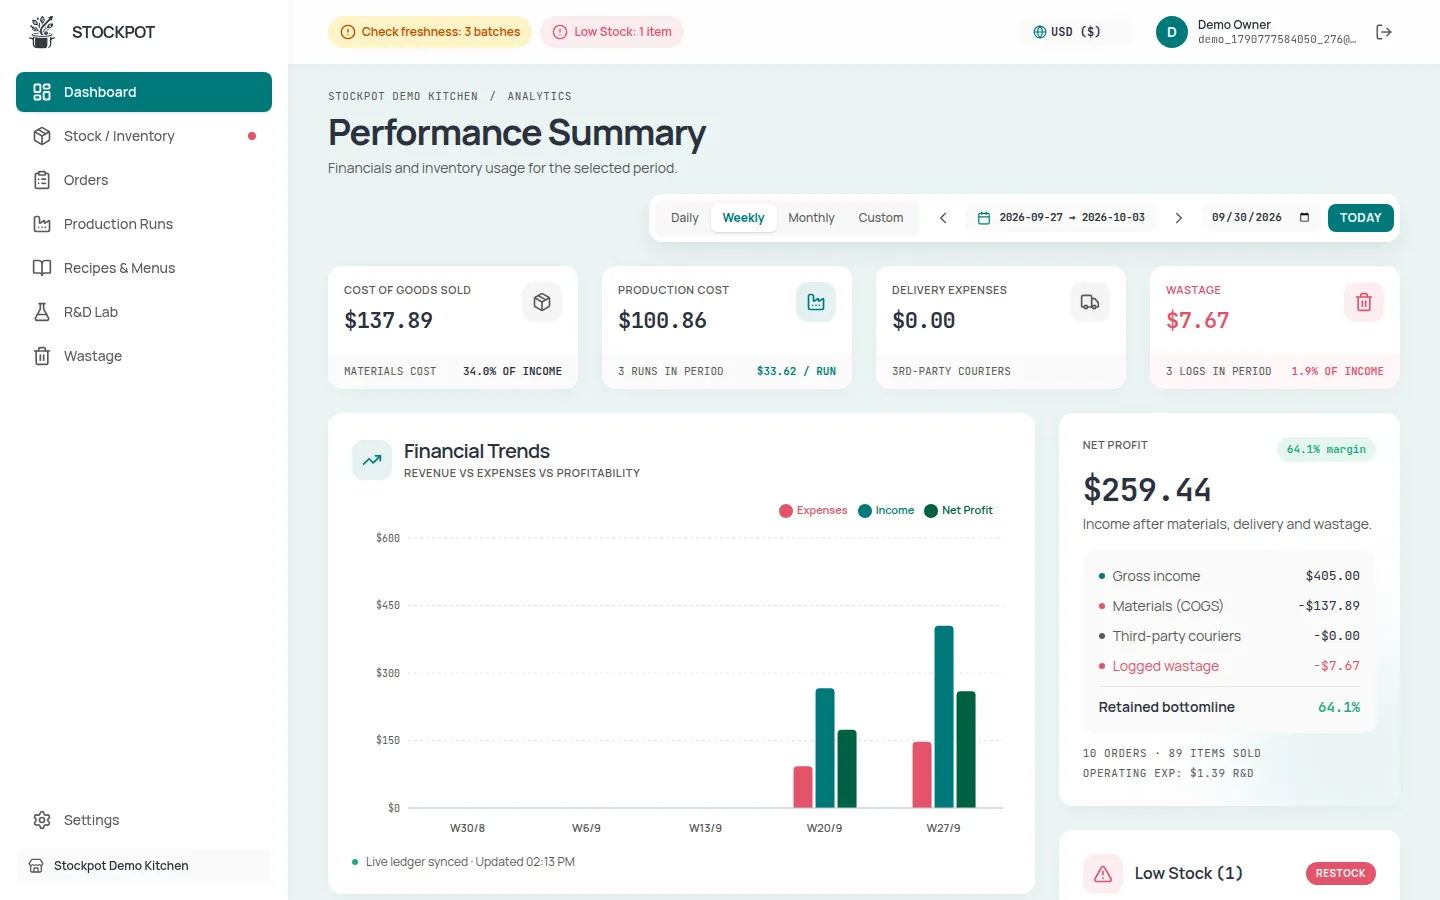
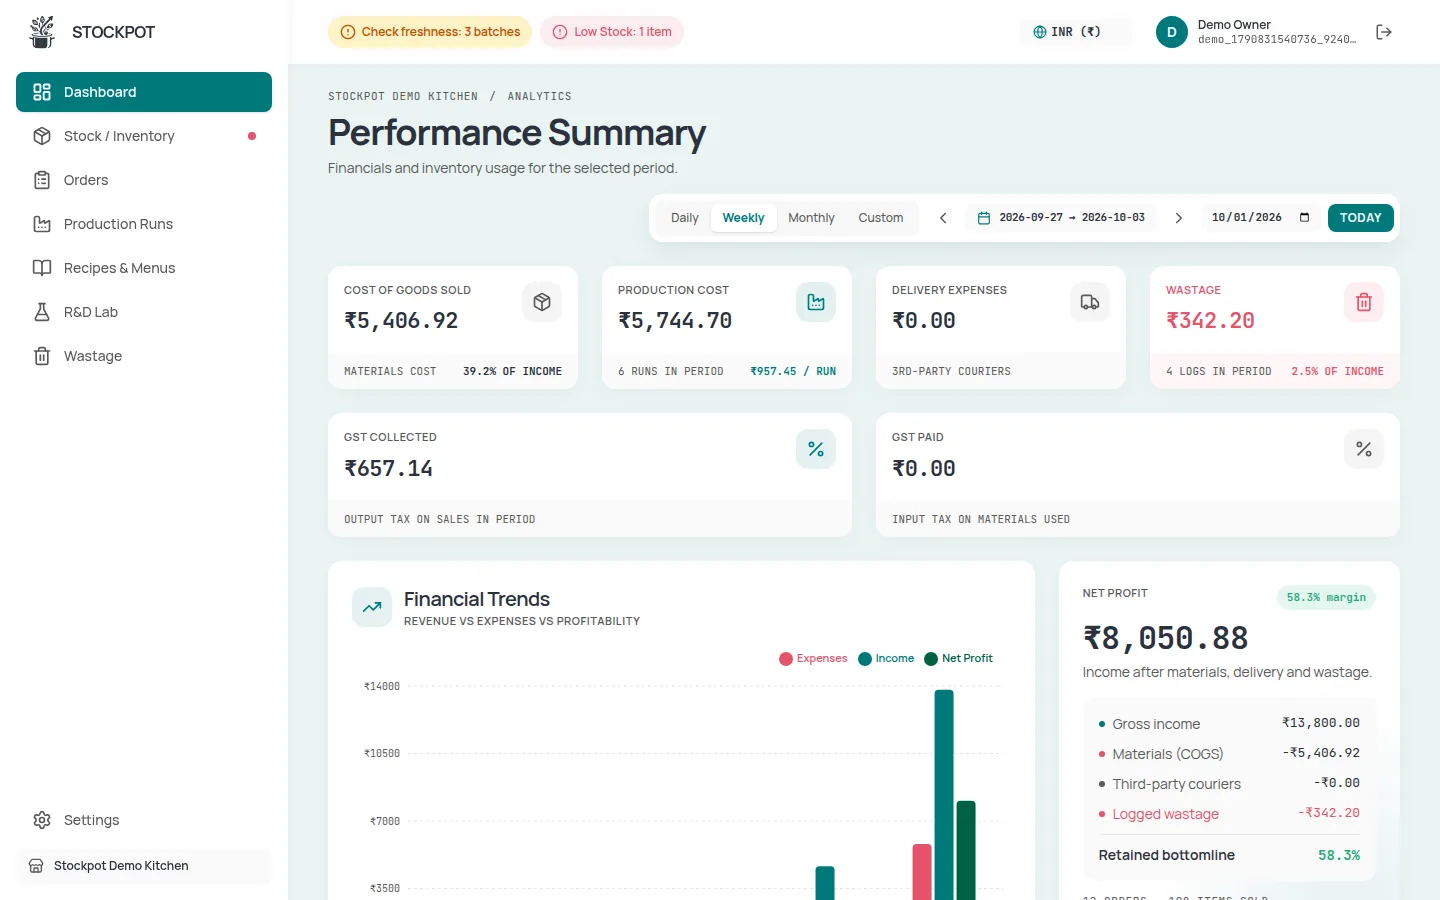
Make the demo sandbox an Indian bakery
Stockpot is focused on India for now. The demo now uses INR with GST on
(5%, inclusive), typical Indian ingredient and menu prices, a Bengaluru
address, Indian customer names and +91 phone numbers, an atta loaf in place
of the sourdough, and an atta croissant R&D trial. All dependent figures are
still derived; tests updated, and the landing-page screenshots are retaken.

Claude-Session: https://claude.ai/code/session_0119maDkaTz4Zs1e7v5ERB2f

diff --git a/src/utils/demoData.ts b/src/utils/demoData.ts
@@ -49,22 +49,25 @@ export function buildDemoData(userId: string, today: string) {
 
   // ── Materials: what was bought (opening stock), price, and alert level ─────
   // Current stock is worked out below from what the production runs used.
+  // Prices are typical Indian retail/wholesale rates in rupees, per gram / ml / piece.
   const purchases = [
-    { id: 'm_flour', name: 'All-Purpose Flour', unit: 'g', bought: 60000, costPerUnit: 0.002, category: 'Raw Materials', threshold: 10000 },
-    { id: 'm_sugar', name: 'Granulated Sugar', unit: 'g', bought: 25000, costPerUnit: 0.0015, category: 'Raw Materials', threshold: 5000 },
-    { id: 'm_butter', name: 'Unsalted Butter', unit: 'g', bought: 12000, costPerUnit: 0.012, category: 'Raw Materials', threshold: 2000 },
-    { id: 'm_eggs', name: 'Large Eggs', unit: 'pcs', bought: 150, costPerUnit: 0.25, category: 'Raw Materials', threshold: 30 },
-    { id: 'm_milk', name: 'Whole Milk', unit: 'ml', bought: 20000, costPerUnit: 0.0012, category: 'Raw Materials', threshold: 4000 },
+    { id: 'm_flour', name: 'Maida (All-Purpose Flour)', unit: 'g', bought: 60000, costPerUnit: 0.045, category: 'Raw Materials', threshold: 10000 }, // ₹45/kg
+    { id: 'm_atta', name: 'Whole Wheat Atta', unit: 'g', bought: 40000, costPerUnit: 0.048, category: 'Raw Materials', threshold: 5000 }, // ₹48/kg
+    { id: 'm_sugar', name: 'Sugar', unit: 'g', bought: 25000, costPerUnit: 0.048, category: 'Raw Materials', threshold: 5000 }, // ₹48/kg
+    { id: 'm_butter', name: 'Unsalted Butter', unit: 'g', bought: 12000, costPerUnit: 0.57, category: 'Raw Materials', threshold: 2000 }, // ₹570/kg
+    { id: 'm_eggs', name: 'Eggs', unit: 'pcs', bought: 150, costPerUnit: 7, category: 'Raw Materials', threshold: 30 }, // ₹7 each
+    { id: 'm_milk', name: 'Full Cream Milk', unit: 'ml', bought: 20000, costPerUnit: 0.068, category: 'Raw Materials', threshold: 4000 }, // ₹68/litre
     // Deliberately runs low so the demo shows a Low Stock alert.
-    { id: 'm_yeast', name: 'Active Dry Yeast', unit: 'g', bought: 1000, costPerUnit: 0.05, category: 'Raw Materials', threshold: 300 },
-    { id: 'm_chips', name: 'Chocolate Chips', unit: 'g', bought: 8000, costPerUnit: 0.008, category: 'Raw Materials', threshold: 1500 },
-    { id: 'm_box', name: 'Packaging Box', unit: 'pcs', bought: 300, costPerUnit: 0.50, category: 'Packaging Materials', threshold: 50 },
+    { id: 'm_yeast', name: 'Instant Dry Yeast', unit: 'g', bought: 900, costPerUnit: 0.7, category: 'Raw Materials', threshold: 300 }, // ₹700/kg
+    { id: 'm_chips', name: 'Chocolate Chips', unit: 'g', bought: 8000, costPerUnit: 0.6, category: 'Raw Materials', threshold: 1500 }, // ₹600/kg
+    { id: 'm_box', name: 'Bakery Box', unit: 'pcs', bought: 300, costPerUnit: 12, category: 'Packaging Materials', threshold: 50 }, // ₹12 each
   ];
+
 
   // ── Menu: recipes are per single unit ──────────────────────────────────────
   const menuBase = [
     {
-      id: 'menu_croissant', name: 'Classic Croissant', sellingPrice: 4.50, emoji: '🥐',
+      id: 'menu_croissant', name: 'Butter Croissant', sellingPrice: 150, emoji: '🥐',
       recipe: [
         { materialId: 'm_flour', amount: 150, unit: 'g' },
         { materialId: 'm_sugar', amount: 15, unit: 'g' },
@@ -74,24 +77,27 @@ export function buildDemoData(userId: string, today: string) {
       ],
     },
     {
-      id: 'menu_muffin', name: 'Chocolate Muffin', sellingPrice: 3.75, emoji: '🧁',
+      id: 'menu_muffin', name: 'Chocolate Muffin', sellingPrice: 120, emoji: '🧁',
       recipe: [
         { materialId: 'm_flour', amount: 120, unit: 'g' },
-        { materialId: 'm_sugar', amount: 80, unit: 'g' },
-        { materialId: 'm_butter', amount: 50, unit: 'g' },
+        { materialId: 'm_sugar', amount: 60, unit: 'g' },
+        { materialId: 'm_butter', amount: 30, unit: 'g' },
         { materialId: 'm_eggs', amount: 1, unit: 'pcs' },
         { materialId: 'm_milk', amount: 60, unit: 'ml' },
-        { materialId: 'm_chips', amount: 40, unit: 'g' },
+        { materialId: 'm_chips', amount: 25, unit: 'g' },
       ],
     },
     {
-      id: 'menu_sourdough', name: 'Sourdough Loaf', sellingPrice: 6.00, emoji: '🍞',
+      id: 'menu_bread', name: 'Whole Wheat Atta Loaf', sellingPrice: 90, emoji: '🍞',
       recipe: [
-        { materialId: 'm_flour', amount: 500, unit: 'g' },
-        { materialId: 'm_yeast', amount: 10, unit: 'g' },
+        { materialId: 'm_atta', amount: 400, unit: 'g' },
+        { materialId: 'm_flour', amount: 100, unit: 'g' },
+        { materialId: 'm_sugar', amount: 15, unit: 'g' },
+        { materialId: 'm_yeast', amount: 6, unit: 'g' },
       ],
     },
   ];
+
 
   const recipeUnitCost = (menuId: string) => {
     const item = menuBase.find(m => m.id === menuId)!;
@@ -104,22 +110,22 @@ export function buildDemoData(userId: string, today: string) {
   // ── Orders (one per customer) ──────────────────────────────────────────────
   const orderRows: [string, number, number, string, string][] = [
     // [menu item, quantity, days ago, customer, phone]
-    ['menu_croissant', 8, 0, 'John Smith', '555-0101'],
-    ['menu_muffin', 12, 0, 'Alice Green', '555-0102'],
-    ['menu_sourdough', 4, 0, 'Robert Vance', '555-0103'],
-    ['menu_croissant', 15, 1, 'Cafe Central', '555-0201'],
-    ['menu_muffin', 8, 1, 'David Lee', '555-0202'],
-    ['menu_sourdough', 6, 1, 'Emily Davis', '555-0203'],
-    ['menu_croissant', 6, 2, 'Local Inn', '555-0301'],
-    ['menu_muffin', 10, 2, 'Bake Fanatic', '555-0302'],
-    ['menu_sourdough', 8, 3, 'George Miller', '555-0401'],
-    ['menu_croissant', 12, 3, 'Sarah Connor', '555-0402'],
-    ['menu_muffin', 14, 4, 'Kevin Hart', '555-0501'],
-    ['menu_croissant', 5, 4, 'Office Gathering', '555-0502'],
-    ['menu_sourdough', 10, 5, 'Daily Grind', '555-0601'],
-    ['menu_croissant', 10, 5, 'Hotel Continental', '555-0602'],
-    ['menu_muffin', 15, 6, 'School Event', '555-0701'],
-    ['menu_sourdough', 5, 6, 'Community Center', '555-0702'],
+    ['menu_croissant', 8, 0, 'Priya Sharma', '+91 98450 10101'],
+    ['menu_muffin', 12, 0, 'Rohan Mehta', '+91 98450 10102'],
+    ['menu_bread', 4, 0, 'Sunita Iyer', '+91 98450 10103'],
+    ['menu_croissant', 15, 1, 'Brew & Bite Café', '+91 98860 20201'],
+    ['menu_muffin', 8, 1, 'Arjun Nair', '+91 98860 20202'],
+    ['menu_bread', 6, 1, 'Kavita Reddy', '+91 98860 20203'],
+    ['menu_croissant', 6, 2, 'Hotel Sai Residency', '+91 99001 30301'],
+    ['menu_muffin', 10, 2, 'Tapri Corner Café', '+91 99001 30302'],
+    ['menu_bread', 8, 3, 'Imran Qureshi', '+91 99720 40401'],
+    ['menu_croissant', 12, 3, 'Neha Gupta', '+91 99720 40402'],
+    ['menu_muffin', 14, 4, 'Vikram Singh', '+91 97420 50501'],
+    ['menu_croissant', 5, 4, 'Infosys Road Office Party', '+91 97420 50502'],
+    ['menu_bread', 10, 5, 'Daily Fresh Grocers', '+91 90350 60601'],
+    ['menu_croissant', 10, 5, 'Hotel Udupi Grand', '+91 90350 60602'],
+    ['menu_muffin', 15, 6, 'Greenfield School Fete', '+91 80410 70701'],
+    ['menu_bread', 5, 6, 'Residents Welfare Association', '+91 80410 70702'],
   ];
   const orders: DemoOrder[] = orderRows.map(([menuItemId, quantity, daysAgo, customerName, customerPhone], i) => ({
     id: `ord_${i + 1}`, menuItemId, quantity, date: at(daysAgo), customerName, customerPhone,
@@ -130,13 +136,13 @@ export function buildDemoData(userId: string, today: string) {
   const runRows: [string, string, number, number | undefined, number, number][] = [
     ['run_1', 'menu_croissant', 30, undefined, 6, 2],
     ['run_2', 'menu_muffin', 30, undefined, 6, 3],
-    ['run_3', 'menu_sourdough', 15, undefined, 6, 2],
+    ['run_3', 'menu_bread', 15, undefined, 6, 2],
     ['run_4', 'menu_croissant', 20, undefined, 4, 2],
     ['run_5', 'menu_muffin', 20, 19, 4, 3], // one muffin lost at the bench
-    ['run_6', 'menu_sourdough', 15, undefined, 4, 2],
+    ['run_6', 'menu_bread', 15, undefined, 4, 2],
     ['run_7', 'menu_croissant', 25, undefined, 1, 2],
     ['run_8', 'menu_muffin', 25, undefined, 2, 3],
-    ['run_9', 'menu_sourdough', 15, undefined, 2, 2],
+    ['run_9', 'menu_bread', 15, undefined, 2, 2],
   ];
 
   // Units ordered per item are taken from the oldest batches first (FIFO).
@@ -195,25 +201,29 @@ export function buildDemoData(userId: string, today: string) {
   const experiments = [
     {
       id: 'exp_1',
-      name: 'Gluten-Free Croissant Attempt',
+      name: 'Atta Croissant Trial',
       date: at(2),
       materials: [
-        { materialId: 'm_flour', amount: 200, unit: 'g' },
+        { materialId: 'm_atta', amount: 200, unit: 'g' },
         { materialId: 'm_sugar', amount: 20, unit: 'g' },
         { materialId: 'm_butter', amount: 80, unit: 'g' },
       ],
-      notes: 'Tried replacing AP Flour with almond flour. Dough was too crumbly, did not rise well. Tastes good but texture is off.',
+      notes: 'Tried replacing maida with whole wheat atta. Layers did not separate well and the crumb was dense. Tastes good but the texture is off.',
     },
   ];
+
 
   const settings = {
     name: 'Stockpot Demo Kitchen',
     logo: '',
     primaryColor: '#10b981',
-    address: '123 Market Street, Foodville',
-    phone: '555-0199',
+    address: '14, 80 Feet Road, Indiranagar, Bengaluru 560038',
+    phone: '+91 98450 00199',
     email: `${userId}@demo.stockpot.app`,
-    currency: { code: 'USD', symbol: '$' },
+    currency: { code: 'INR', symbol: '₹' },
+    gstApplicable: true,
+    gstRate: 5,
+    gstPricingMode: 'inclusive',
     categories: ['Raw Materials', 'Packaging Materials'],
   };
 

diff --git a/src/utils/__tests__/demoData.test.ts b/src/utils/__tests__/demoData.test.ts
@@ -23,19 +23,21 @@ describe('demo data adds up', () => {
     for (const r of demo.productionRuns) expect(demo.menu.some(m => m.id === r.recipeId)).toBe(true);
   });
 
-  it('prices a croissant at 1.5325 of materials, worked out by hand', () => {
-    // 150g flour x 0.002 + 15g sugar x 0.0015 + 75g butter x 0.012 + 50ml milk x 0.0012 + 5g yeast x 0.05
-    expect(recipeCost('menu_croissant')).toBeCloseTo(0.3 + 0.0225 + 0.9 + 0.06 + 0.25, 6);
-    expect(recipeCost('menu_croissant')).toBeCloseTo(1.5325, 6);
-    expect(recipeCost('menu_sourdough')).toBeCloseTo(1.5, 6); // 500g flour + 10g yeast
+  it('prices a croissant at ₹57.12 of materials, worked out by hand', () => {
+    // 150g maida x 0.045 + 15g sugar x 0.048 + 75g butter x 0.57 + 50ml milk x 0.068 + 5g yeast x 0.7
+    expect(recipeCost('menu_croissant')).toBeCloseTo(6.75 + 0.72 + 42.75 + 3.4 + 3.5, 6);
+    expect(recipeCost('menu_croissant')).toBeCloseTo(57.12, 6);
+    // 400g atta x 0.048 + 100g maida x 0.045 + 15g sugar x 0.048 + 6g yeast x 0.7
+    expect(recipeCost('menu_bread')).toBeCloseTo(19.2 + 4.5 + 0.72 + 4.2, 6);
+    expect(recipeCost('menu_bread')).toBeCloseTo(28.62, 6);
   });
 
   it('costs every production run at quantity produced x recipe cost', () => {
     for (const run of demo.productionRuns) {
       expect(run.costTotal).toBeCloseTo(run.quantityProduced * recipeCost(run.recipeId), 1);
     }
-    // 25 croissants: about 38.31, not thousands
-    expect(byId(demo.productionRuns, 'run_7').costTotal).toBe(38.31);
+    // 25 croissants at ₹57.12 each
+    expect(byId(demo.productionRuns, 'run_7').costTotal).toBe(1428);
   });
 
   it('shelf stock is units made (after waste) minus units ordered, and matches the batches', () => {
@@ -44,7 +46,7 @@ describe('demo data adds up', () => {
     expect(ordered('menu_croissant')).toBe(56);
     expect(byId(demo.menu, 'menu_croissant').finishedGoodsStock).toBe(75 - 56);
     expect(byId(demo.menu, 'menu_muffin').finishedGoodsStock).toBe(74 - 59); // 30 + 19 (one lost) + 25 made
-    expect(byId(demo.menu, 'menu_sourdough').finishedGoodsStock).toBe(45 - 33);
+    expect(byId(demo.menu, 'menu_bread').finishedGoodsStock).toBe(45 - 33);
     for (const item of demo.menu) {
       expect(item.finishedGoodsStock).toBe(produced(item.id) - ordered(item.id));
       const left = sum(demo.productionRuns.filter(r => r.recipeId === item.id).map(r => r.remainingQuantity));
@@ -79,11 +81,13 @@ describe('demo data adds up', () => {
       const req = byId(demo.menu, run.recipeId).recipe.find(r => r.materialId === materialId);
       return req ? convertAmount(req.amount, req.unit, byId(demo.materials, materialId).unit) * run.quantityProduced : 0;
     }));
-    // flour: 75 croissants x 150g + 75 muffins x 120g + 45 loaves x 500g = 42,750g of 60,000g bought
-    expect(used('m_flour')).toBe(42750);
-    expect(byId(demo.materials, 'm_flour').initialStock).toBe(60000 - 42750);
-    // yeast: 75 x 5g + 45 x 10g = 825g of 1,000g bought
-    expect(byId(demo.materials, 'm_yeast').initialStock).toBe(1000 - 825);
+    // maida: 75 croissants x 150g + 75 muffins x 120g + 45 loaves x 100g = 24,750g of 60,000g bought
+    expect(used('m_flour')).toBe(24750);
+    expect(byId(demo.materials, 'm_flour').initialStock).toBe(60000 - 24750);
+    // atta: 45 loaves x 400g = 18,000g of 40,000g bought
+    expect(byId(demo.materials, 'm_atta').initialStock).toBe(40000 - 18000);
+    // yeast: 75 x 5g + 45 x 6g = 645g of 900g bought
+    expect(byId(demo.materials, 'm_yeast').initialStock).toBe(900 - 645);
     // eggs: one per muffin, all 75 baked (the lost muffin still used its egg)
     expect(byId(demo.materials, 'm_eggs').initialStock).toBe(150 - 75);
     // packaging is not part of any recipe, so untouched
@@ -112,6 +116,20 @@ describe('demo data adds up', () => {
     for (const item of demo.menu) {
       const margin = (item.sellingPrice - recipeCost(item.id)) / item.sellingPrice;
       expect(margin).toBeGreaterThan(0.5);
+    }
+  });
+
+  it('is set up for an Indian business: rupees, GST on, and rupee-scale prices', () => {
+    expect(demo.settings.currency).toEqual({ code: 'INR', symbol: '₹' });
+    expect(demo.settings.gstApplicable).toBe(true);
+    expect(demo.settings.phone).toMatch(/^\+91 /);
+    for (const o of demo.orders) expect(o.customerPhone).toMatch(/^\+91 /);
+    // typical Indian retail prices: staples cost tens of rupees a kilo, butter hundreds
+    expect(byId(demo.materials, 'm_flour').costPerUnit * 1000).toBeCloseTo(45, 6);
+    expect(byId(demo.materials, 'm_butter').costPerUnit * 1000).toBeCloseTo(570, 6);
+    for (const item of demo.menu) {
+      expect(item.sellingPrice).toBeGreaterThanOrEqual(50);
+      expect(item.sellingPrice).toBeLessThanOrEqual(300);
     }
   });
 

diff --git a/src/__tests__/demoSandbox.test.tsx b/src/__tests__/demoSandbox.test.tsx
@@ -63,7 +63,7 @@ describe('Demo sandbox', () => {
     const docs = (kind: string) => [...fake.current.store.entries()].filter(([k]) => k.includes(`/${kind}/`)).map(([, v]) => v as any);
     const [materials, menu, orders, runs, experiments] = ['materials', 'menu', 'orders', 'productionRuns', 'experiments'].map(docs);
     const sum = (xs: number[]) => xs.reduce((a, b) => a + b, 0);
-    const money = (n: number) => `$${n.toLocaleString(undefined, { minimumFractionDigits: 2, maximumFractionDigits: 2 })}`;
+    const money = (n: number) => `₹${n.toLocaleString(undefined, { minimumFractionDigits: 2, maximumFractionDigits: 2 })}`;
     const valueOf = (label: string) => screen.getByText(label).nextElementSibling?.textContent;
     const open = async (nav: RegExp, heading: string) => {
       fireEvent.click(screen.getAllByRole('button', { name: nav })[0]);
@@ -91,7 +91,7 @@ describe('Demo sandbox', () => {
     const value = sum(materials.map((m: any) => Math.max(m.initialStock - projectedUse(m.id), 0) * m.costPerUnit));
     expect(screen.getByText('Raw Inventory Value').closest('div.surface-card')?.textContent).toContain(money(value));
     const low = materials.filter((m: any) => m.threshold > 0 && m.initialStock - projectedUse(m.id) <= m.threshold);
-    expect(low.map((m: any) => m.name)).toEqual(['Active Dry Yeast']);
+    expect(low.map((m: any) => m.name)).toEqual(['Instant Dry Yeast']);
     expect(screen.getByText('Under Threshold').closest('div.surface-card')?.textContent).toContain('1 SKU');
 
     // Dashboard (today): income - materials used = net profit

diff --git a/src/App.tsx b/src/App.tsx
@@ -628,7 +628,7 @@ function BakeryApp() {
    * Seeds realistic demo data for a newly created demo user in Firestore.
    * Sets up settings, materials, menu items, sales orders, production runs, and R&D sessions.
    * Uses a single atomic writeBatch to ensure all writes complete together.
-   * Default currency is set to USD (US Dollar, code: 'USD', symbol: '$').
+   * Default currency is set to INR (Indian Rupee, code: 'INR', symbol: '₹'), with GST on at 5% (prices inclusive).
    * The data itself lives in utils/demoData.ts, where every dependent number
    * (batch costs, ingredient and shelf stock) is derived so the demo adds up.
    */

diff --git a/docs/CHANGELOG.md b/docs/CHANGELOG.md
@@ -1,5 +1,26 @@
 # Changelog
 
+## Demo sandbox: India-specific data
+
+Stockpot is focused on the Indian market for now, so the demo sandbox is now an
+Indian bakery (`src/utils/demoData.ts`):
+
+- **Rupees, GST on.** Currency is INR (₹), and GST is switched on at 5%
+  with prices inclusive, so the Dashboard shows GST collected. The business
+  address and phone are in Bengaluru (+91), and customers have Indian names and
+  +91 phone numbers. The 5% rate is a placeholder for the demo, not tax advice.
+- **Typical Indian prices** (per kg unless noted): maida ₹45, whole wheat
+  atta ₹48, sugar ₹48, unsalted butter ₹570, chocolate chips ₹600,
+  instant yeast ₹700, milk ₹68 a litre, eggs ₹7 each, bakery box ₹12.
+- **Menu:** Butter Croissant ₹150, Chocolate Muffin ₹120 and a Whole Wheat
+  Atta Loaf ₹90 (replacing the sourdough loaf), with recipes costed from the
+  prices above (₹57.12, ₹51.46 and ₹28.62 a unit). The R&D experiment is now
+  an atta croissant trial and atta is a new raw material.
+- Everything dependent is still derived, so batch costs, stock and shelf
+  stock add up; tests cover the new figures.
+- The ten landing-page screenshots in `public/landing/` were retaken, so they
+  show rupees too. Real new accounts still default to USD; only the demo changed.
+
 ## Landing page: price is $24 / month
 
 The pricing card now shows $24 / month (`PRICE` in `src/LandingPage.tsx`),
